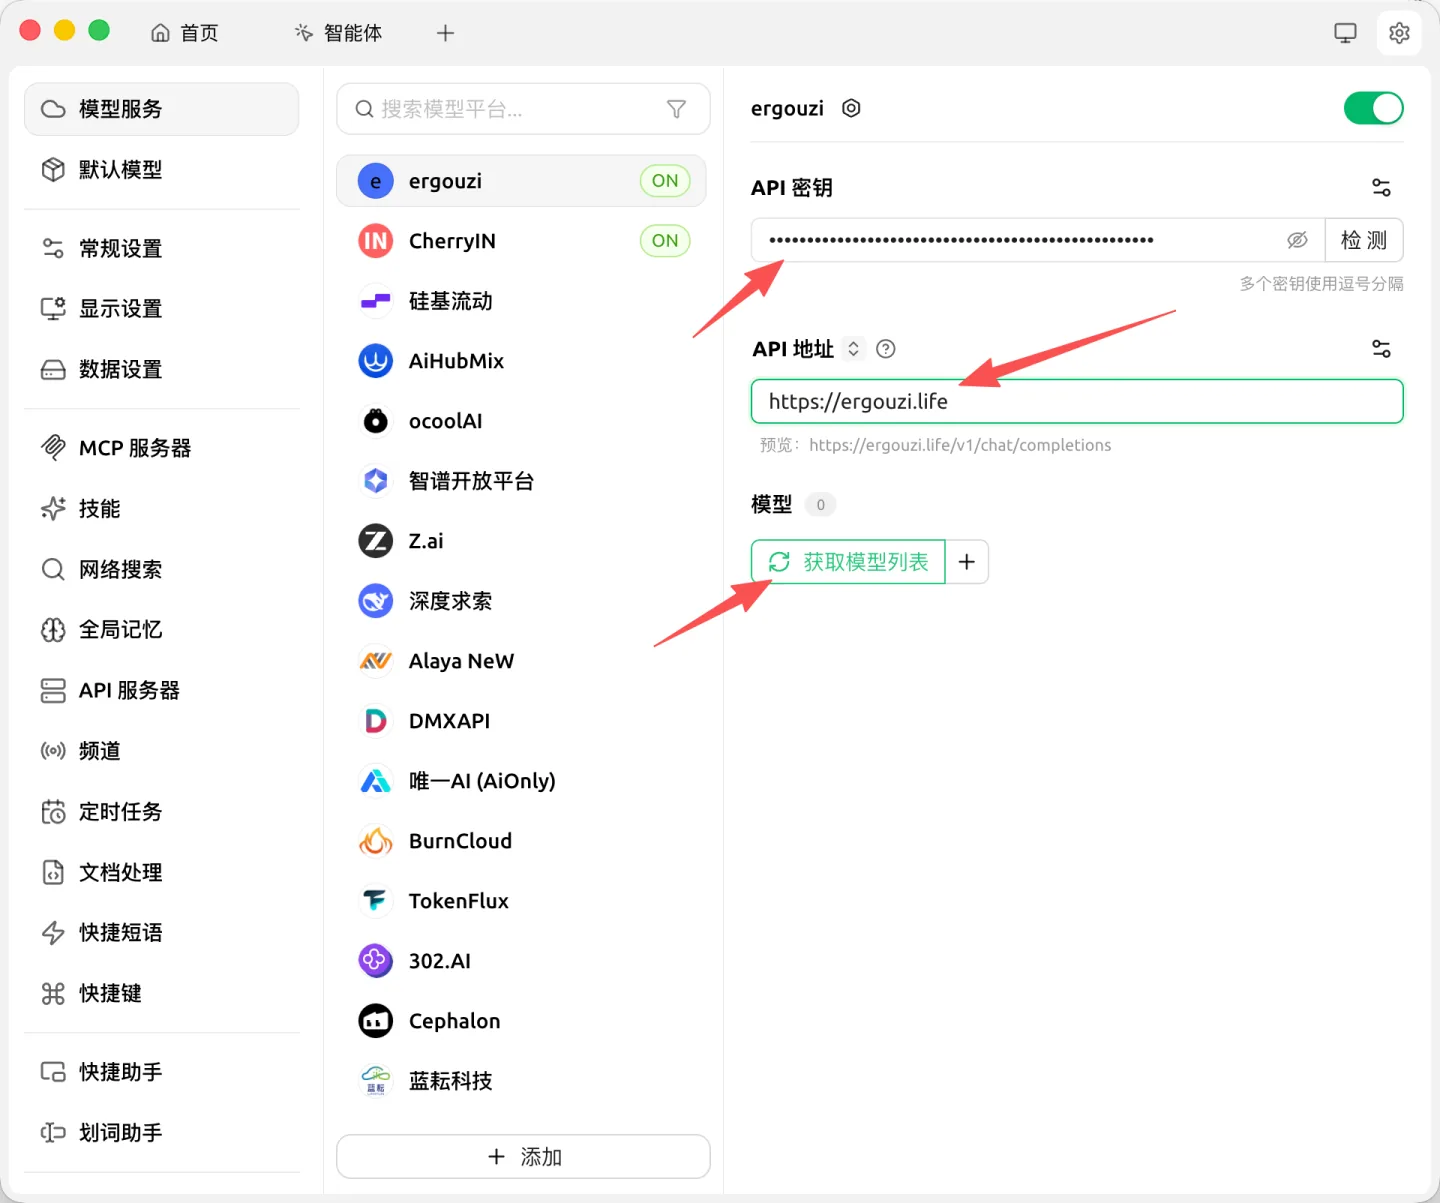
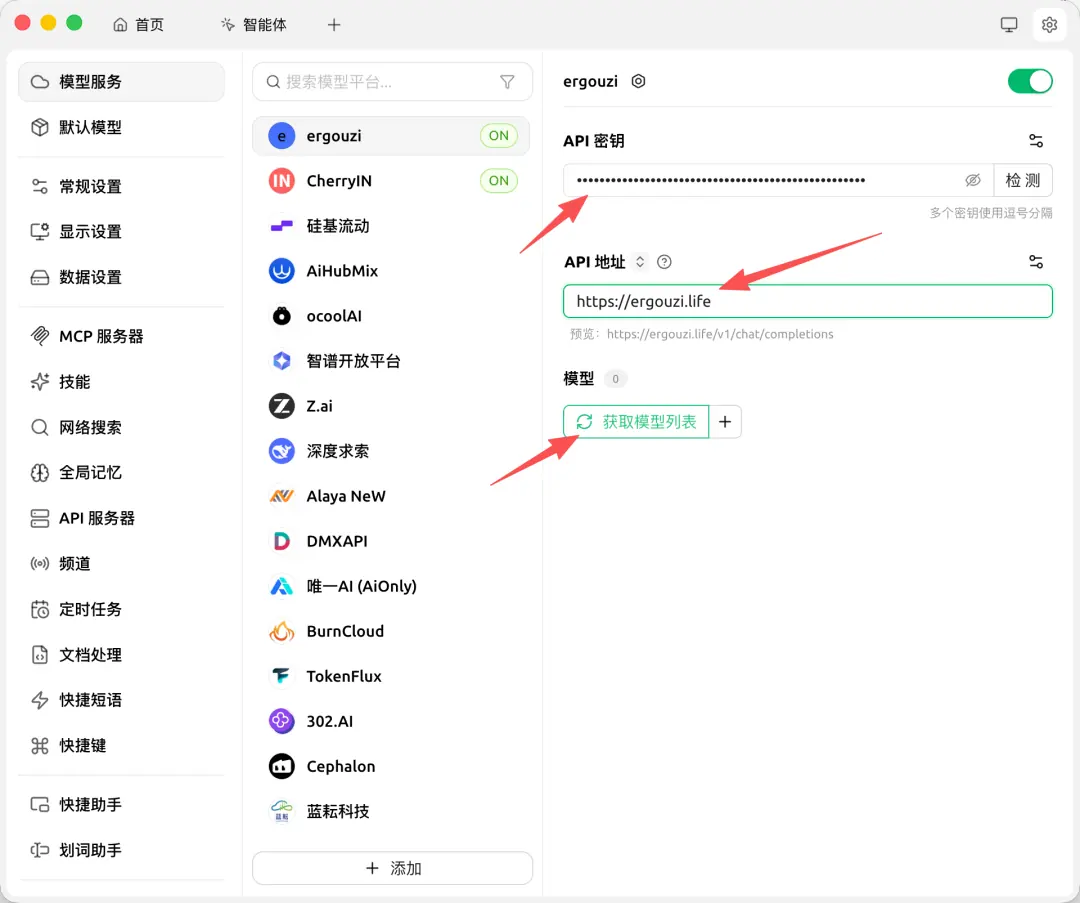
Optimize guide images and sidebar navigation

diff --git a/assets/content.js b/assets/content.js
@@ -55,8 +55,8 @@ const pageHead = (section, title, lead, badge) => `
   </div>
 `;
 
-const docImage = (src, alt, caption, width = 1440, height = 1203) => `
-  <div class="doc-image-wrap">
+const docImage = (src, alt, caption, width = 1440, height = 1203, className = "") => `
+  <div class="doc-image-wrap ${className}">
     <div class="doc-image-frame">
       <img class="doc-image" src="${src}" alt="${alt}" width="${width}" height="${height}" loading="lazy" decoding="async" />
     </div>
@@ -1759,7 +1759,10 @@ gemini
         ${docImage(
           CHERRY_AGENT_SETTINGS_IMAGE,
           "Cherry Studio 智能体页中的前往设置按钮",
-          "在智能体页点击“前往设置”，进入模型服务相关配置。"
+          "在智能体页点击“前往设置”，进入模型服务相关配置。",
+          1080,
+          903,
+          "doc-image-compact"
         )}
       </section>
 
@@ -1771,7 +1774,10 @@ gemini
         ${docImage(
           CHERRY_ADD_ENTRY_IMAGE,
           "Cherry Studio 模型服务页底部的添加按钮",
-          "在模型服务列表底部点击“添加”。"
+          "在模型服务列表底部点击“添加”。",
+          1080,
+          903,
+          "doc-image-compact"
         )}
         <p>
           在“添加提供商”弹窗里，提供商名称填写 <strong>ergouzi</strong>，提供商类型选择 <strong>OpenAI</strong>，然后点击 <strong>确定</strong>。
@@ -1779,7 +1785,10 @@ gemini
         ${docImage(
           CHERRY_ADD_PROVIDER_IMAGE,
           "Cherry Studio 添加提供商弹窗，名称填写 ergouzi，类型选择 OpenAI",
-          "名称写 ergouzi，类型选 OpenAI。"
+          "名称写 ergouzi，类型选 OpenAI。",
+          1080,
+          903,
+          "doc-image-compact"
         )}
       </section>
 
@@ -1796,7 +1805,10 @@ gemini
         ${docImage(
           CHERRY_PROVIDER_CONFIG_IMAGE,
           "Cherry Studio 中 ergouzi 提供商的 API 密钥和 API 地址配置",
-          "粘贴 API Key，API 地址填写 https://ergouzi.life，然后点击“获取模型列表”。"
+          "粘贴 API Key，API 地址填写 https://ergouzi.life，然后点击“获取模型列表”。",
+          1080,
+          903,
+          "doc-image-compact"
         )}
       </section>
 
@@ -1808,7 +1820,10 @@ gemini
         ${docImage(
           CHERRY_MODEL_PICKER_IMAGE,
           "Cherry Studio 模型列表弹窗中模型右侧的加号",
-          "在模型弹窗里点击模型右侧“+”，把需要的模型加入 ergouzi。"
+          "在模型弹窗里点击模型右侧“+”，把需要的模型加入 ergouzi。",
+          1080,
+          903,
+          "doc-image-compact"
         )}
         <p>
           添加后回到提供商详情页，模型区域会出现已加入的模型列表。这里能看到模型数量和模型名称，就说明模型已经写入 Cherry Studio。
@@ -1816,7 +1831,10 @@ gemini
         ${docImage(
           CHERRY_MODEL_LIST_IMAGE,
           "Cherry Studio ergouzi 提供商下已添加的模型列表",
-          "模型列表中出现 gpt-5.4、gpt-image-2 等模型，说明添加成功。"
+          "模型列表中出现 gpt-5.4、gpt-image-2 等模型，说明添加成功。",
+          1080,
+          903,
+          "doc-image-compact"
         )}
       </section>
 
@@ -1828,7 +1846,10 @@ gemini
         ${docImage(
           CHERRY_HOME_MODEL_IMAGE,
           "Cherry Studio 首页顶部的模型选择器",
-          "回到首页后，点击顶部模型名称打开模型选择器。"
+          "回到首页后，点击顶部模型名称打开模型选择器。",
+          1080,
+          903,
+          "doc-image-compact"
         )}
         <p>
           在模型选择器里找到 <strong>ergouzi</strong> 分组，选择用于聊天的文本模型，例如 <strong>gpt-5.4</strong>。
@@ -1836,7 +1857,10 @@ gemini
         ${docImage(
           CHERRY_MODEL_SWITCHER_IMAGE,
           "Cherry Studio 模型选择器中 ergouzi 分组的模型",
-          "在 ergouzi 分组下选择 gpt-5.4 等文本模型。"
+          "在 ergouzi 分组下选择 gpt-5.4 等文本模型。",
+          1080,
+          903,
+          "doc-image-compact"
         )}
       </section>
 
@@ -1848,7 +1872,10 @@ gemini
         ${docImage(
           CHERRY_CHAT_TEST_IMAGE,
           "Cherry Studio 使用 gpt-5.4 ergouzi 模型正常回复测试消息",
-          "收到正常回复后，Cherry Studio 集成完成。"
+          "收到正常回复后，Cherry Studio 集成完成。",
+          1080,
+          903,
+          "doc-image-compact"
         )}
       </section>
 
@@ -1961,8 +1988,9 @@ gemini
           TRAE_SETTINGS_ENTRY_IMAGE,
           "Trae CN 顶部工具栏中的配置按钮",
           "在 Trae CN 顶部点击齿轮配置按钮。",
-          1440,
-          900
+          1080,
+          675,
+          "doc-image-compact"
         )}
       </section>
 
@@ -1975,8 +2003,9 @@ gemini
           TRAE_MODEL_MANAGEMENT_IMAGE,
           "Trae CN 设置页中的模型管理和添加模型按钮",
           "在“模型”页面点击“添加模型”。",
-          1440,
-          900
+          1080,
+          675,
+          "doc-image-compact"
         )}
       </section>
 
@@ -1996,8 +2025,9 @@ gemini
           TRAE_ADD_MODEL_IMAGE,
           "Trae CN 添加模型弹窗中的模型 ID、API 密钥和自定义请求地址",
           "模型 ID 填模型名，API 密钥填二狗子 Token，自定义请求地址填完整 Chat Completions 地址。",
-          1440,
-          900
+          1080,
+          675,
+          "doc-image-compact"
         )}
       </section>
 

diff --git a/assets/styles.css b/assets/styles.css
@@ -231,8 +231,10 @@ kbd {
 
 .nav-groups {
   display: flex;
+  flex: 1;
   flex-direction: column;
   gap: 20px;
+  min-height: 0;
   overflow: auto;
   padding-right: 4px;
 }
@@ -249,7 +251,7 @@ kbd {
   justify-content: space-between;
   gap: 10px;
   width: 100%;
-  padding: 0 10px;
+  padding: 4px 10px;
   border: 0;
   background: transparent;
   color: var(--muted);
@@ -260,14 +262,14 @@ kbd {
 .nav-group-label {
   display: flex;
   align-items: center;
-  padding: 0 10px;
+  padding: 4px 10px;
 }
 
 .nav-group-title {
-  color: var(--muted);
-  font-size: 0.78rem;
-  font-weight: 700;
-  letter-spacing: 0.08em;
+  color: var(--text);
+  font-size: 0.82rem;
+  font-weight: 800;
+  letter-spacing: 0.04em;
   text-transform: uppercase;
 }
 
@@ -289,7 +291,10 @@ kbd {
 .nav-group-links {
   display: flex;
   flex-direction: column;
-  gap: 8px;
+  gap: 6px;
+  margin-left: 10px;
+  padding-left: 14px;
+  border-left: 1px solid rgba(91, 100, 114, 0.18);
 }
 
 .nav-group-toggle:hover .nav-group-title,
@@ -299,11 +304,22 @@ kbd {
 
 .nav-link {
   display: block;
+  position: relative;
   padding: 10px 12px;
   border: 1px solid transparent;
-  border-radius: 14px;
+  border-radius: 12px;
   color: var(--muted-strong);
   font-size: 0.96rem;
+}
+
+.nav-link::before {
+  content: "";
+  position: absolute;
+  top: 50%;
+  left: -15px;
+  width: 8px;
+  border-top: 1px solid rgba(91, 100, 114, 0.18);
+  transform: translateY(-50%);
 }
 
 .nav-link.active {
@@ -311,6 +327,10 @@ kbd {
   background: linear-gradient(135deg, rgba(0, 149, 238, 0.12), rgba(106, 58, 199, 0.06));
   color: #005ce6;
   font-weight: 600;
+}
+
+.nav-link.active::before {
+  border-color: rgba(0, 100, 250, 0.36);
 }
 
 .nav-link.tone-important {
@@ -837,6 +857,12 @@ html:not([data-theme="dark"]) .page-head h1 {
 
 .doc-image-wrap {
   margin: 20px 0 26px;
+}
+
+.doc-image-wrap.doc-image-compact {
+  max-width: 620px;
+  margin-right: auto;
+  margin-left: auto;
 }
 
 .doc-image-frame {
@@ -1434,6 +1460,15 @@ html[data-theme="dark"] .nav-link {
   color: var(--muted-strong);
 }
 
+html[data-theme="dark"] .nav-group-title {
+  color: #e2e8f0;
+}
+
+html[data-theme="dark"] .nav-group-links,
+html[data-theme="dark"] .nav-link::before {
+  border-color: rgba(148, 163, 184, 0.18);
+}
+
 html[data-theme="dark"] .nav-link.active {
   border-color: rgba(90, 169, 255, 0.28);
   background:
@@ -1441,6 +1476,10 @@ html[data-theme="dark"] .nav-link.active {
     rgba(255, 255, 255, 0.03);
   color: #eef6ff;
   box-shadow: inset 0 1px 0 rgba(255, 255, 255, 0.06);
+}
+
+html[data-theme="dark"] .nav-link.active::before {
+  border-color: rgba(90, 169, 255, 0.44);
 }
 
 html[data-theme="dark"] .nav-link.tone-important {

diff --git a/assets/app.js b/assets/app.js
@@ -1,4 +1,4 @@
-import { navSections, pages } from "./content.js?v=20260424-13";
+import { navSections, pages } from "./content.js?v=20260425-2";
 
 const pageMap = new Map(pages.map((page) => [page.path, page]));
 
@@ -162,6 +162,12 @@ function renderSidebar(currentPath) {
       },
     )
     .join("");
+
+  const activeLink = sidebarNav.querySelector(".nav-link.active");
+  if (activeLink) {
+    const targetTop = activeLink.offsetTop - sidebarNav.clientHeight / 2 + activeLink.clientHeight / 2;
+    sidebarNav.scrollTop = Math.max(0, targetTop);
+  }
 
   sidebarNav.querySelectorAll("[data-nav-group-toggle]").forEach((button) => {
     button.addEventListener("click", () => {

diff --git a/index.html b/index.html
@@ -9,7 +9,7 @@
       content="Ergouzi API 文档站，包含 Cherry Studio 集成、OpenAI / Claude / Gemini 接入、SDK 设置与调用示例。"
     />
     <link rel="icon" type="image/svg+xml" href="./assets/favicon.svg" />
-    <link rel="stylesheet" href="./assets/styles.css?v=20260424-1" />
+    <link rel="stylesheet" href="./assets/styles.css?v=20260425-2" />
   </head>
   <body>
     <div class="site-chrome">
@@ -108,6 +108,6 @@
 
     <div class="mobile-backdrop" id="mobile-backdrop" hidden></div>
 
-    <script type="module" src="./assets/app.js?v=20260424-13"></script>
+    <script type="module" src="./assets/app.js?v=20260425-2"></script>
   </body>
 </html>
